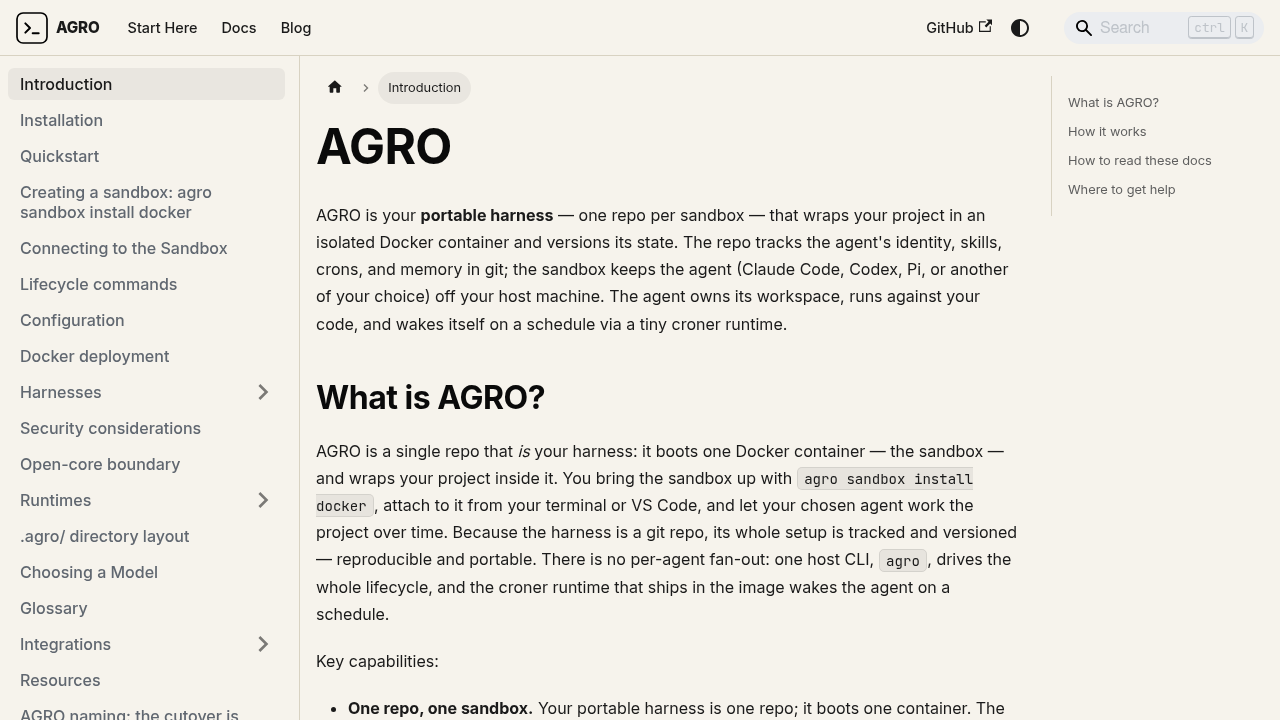
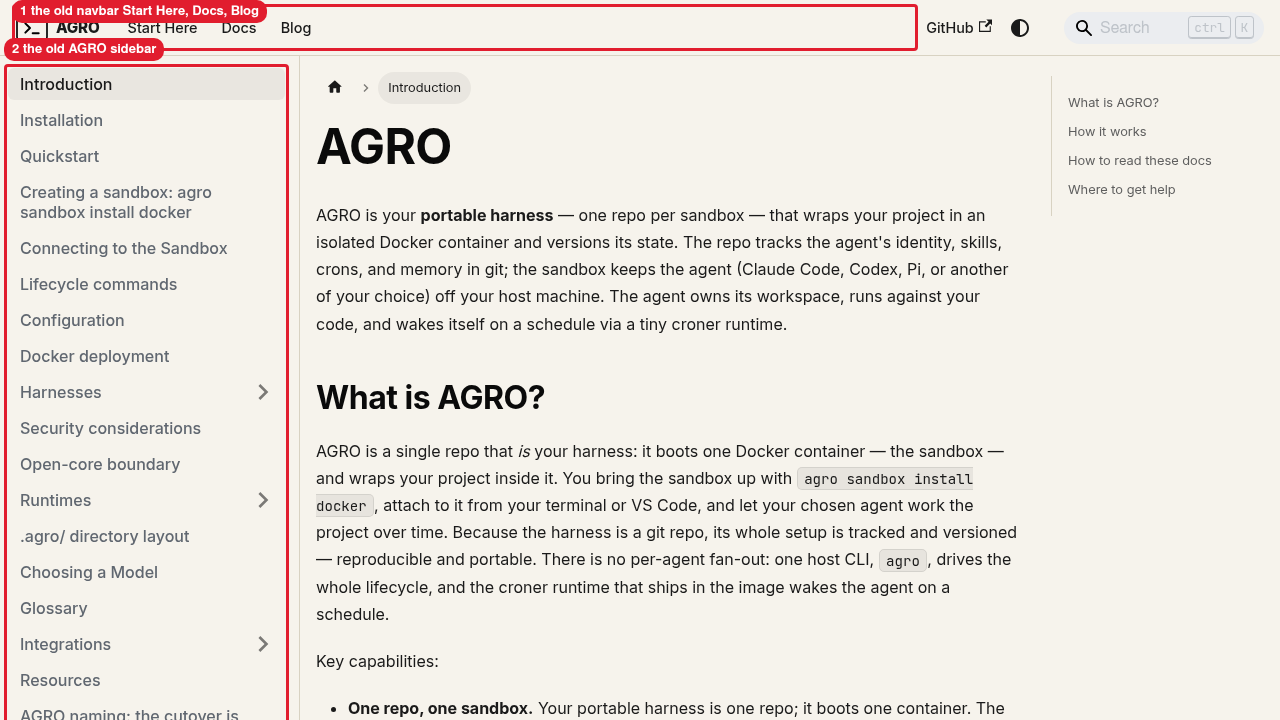
docs: annotate the before screenshots (#70, US-015)

Changed region(s): [[0.0, 0.0, 0.7188, 0.1222]]

diff --git a/.agro/tasks/docs-site-alignment/evidence/manual-review.md b/.agro/tasks/docs-site-alignment/evidence/manual-review.md
@@ -39,7 +39,7 @@ The run used agent-browser 0.38.1 with the session `us-015`. The run took each s
 
    <img src="https://github.com/mifunedev/agro-web/blob/<commit-sha>/.agro/tasks/docs-site-alignment/evidence/before-home-1280.png?raw=true" width="720" alt="Live home page at 1280x720 before the change">
    </details>
-   Caption: before the change, the home page had no Console path and installed from `get-agro.sh` on agro.mifune.dev.
+   Callouts: 1 is the old navbar Start Here, Docs, Blog. 2 is the old hero buttons. Before the change, the home page had no Console path and installed from `get-agro.sh` on agro.mifune.dev.
 
 3. Open `http://localhost:3299/` at 414x896. Expected: the hero buttons stack as "Read the Console guide", "Open the Console", "Self-host AGRO". The quickstart panel shows "npm install -g @mifune/agro".
    <details><summary>Screenshot</summary>
@@ -53,7 +53,7 @@ The run used agent-browser 0.38.1 with the session `us-015`. The run took each s
 
    <img src="https://github.com/mifunedev/agro-web/blob/<commit-sha>/.agro/tasks/docs-site-alignment/evidence/before-home-414.png?raw=true" width="720" alt="Live home page at 414x896 before the change">
    </details>
-   Caption: before the change, the mobile hero showed "Get started" and "★ Star on GitHub".
+   Callouts: 1 is the old hero buttons. Before the change, the mobile hero showed "Get started" and "★ Star on GitHub".
 
 **B. Console guide**
 
@@ -69,7 +69,7 @@ The run used agent-browser 0.38.1 with the session `us-015`. The run took each s
 
    <img src="https://github.com/mifunedev/agro-web/blob/<commit-sha>/.agro/tasks/docs-site-alignment/evidence/before-console-intro-1280.png?raw=true" width="720" alt="Live docs introduction at 1280x720 before the change">
    </details>
-   Caption: before the change, `/docs` was the AGRO introduction, and the site had no Console guide.
+   Callouts: 1 is the old navbar Start Here, Docs, Blog. 2 is the old AGRO sidebar. Before the change, `/docs` was the AGRO introduction, and the site had no Console guide.
 
 3. Open `http://localhost:3299/docs` at 414x896. Expected: the breadcrumb shows "Introduction". The page title is "Mifune Console".
    <details><summary>Screenshot</summary>
@@ -83,7 +83,7 @@ The run used agent-browser 0.38.1 with the session `us-015`. The run took each s
 
    <img src="https://github.com/mifunedev/agro-web/blob/<commit-sha>/.agro/tasks/docs-site-alignment/evidence/before-console-intro-414.png?raw=true" width="720" alt="Live docs introduction at 414x896 before the change">
    </details>
-   Caption: before the change, the mobile `/docs` page showed the title "AGRO".
+   Callouts: 1 is the old page title AGRO.
 
 5. Open `http://localhost:3299/docs/console/nodes` at 1280x720. Expected: the sidebar marks "Nodes" as active. The page title is "Nodes". The first heading is "Roles for each action".
    <details><summary>Screenshot</summary>
@@ -117,7 +117,7 @@ The run used agent-browser 0.38.1 with the session `us-015`. The run took each s
 
    <img src="https://github.com/mifunedev/agro-web/blob/<commit-sha>/.agro/tasks/docs-site-alignment/evidence/before-agro-quickstart-1280.png?raw=true" width="720" alt="Live quickstart at 1280x720 before the change">
    </details>
-   Caption: before the change, the quickstart lived at `/docs/quickstart` and named `get-agro.sh` as the bootstrap.
+   Callouts: 1 is the old npm install line. 2 is the get-agro.sh install line. Before the change, the quickstart lived at `/docs/quickstart` and named `get-agro.sh` as the bootstrap.
 
 4. Look at `/docs/agro/quickstart` at 414x896. Expected: the step heading is "1. Get agro". The first command is "npm install -g @mifune/agro".
    <details><summary>Screenshot</summary>
@@ -131,7 +131,7 @@ The run used agent-browser 0.38.1 with the session `us-015`. The run took each s
 
    <img src="https://github.com/mifunedev/agro-web/blob/<commit-sha>/.agro/tasks/docs-site-alignment/evidence/before-agro-quickstart-414.png?raw=true" width="720" alt="Live quickstart at 414x896 before the change">
    </details>
-   Caption: before the change, the mobile quickstart showed "Before you start" and named `get-agro.sh`.
+   Callouts: 1 is the old npm install line. 2 is the get-agro.sh install line.
 
 **D. Blog post**
 
@@ -147,7 +147,7 @@ The run used agent-browser 0.38.1 with the session `us-015`. The run took each s
 
    <img src="https://github.com/mifunedev/agro-web/blob/<commit-sha>/.agro/tasks/docs-site-alignment/evidence/before-blog-1280.png?raw=true" width="720" alt="Live blog post at 1280x720 before the change">
    </details>
-   Caption: before the change, the post used the name "Open Harness" and `oh` commands.
+   Callouts: 1 is the old title with Open Harness. 2 is the old Commands updated note. Before the change, the post used the name "Open Harness" and `oh` commands.
 
 3. Open the post at 414x896. Expected: the date is "July 7, 2026". The note shows "Updated on 2026-10-08. Open Harness is now AGRO."
    <details><summary>Screenshot</summary>
@@ -161,7 +161,7 @@ The run used agent-browser 0.38.1 with the session `us-015`. The run took each s
 
    <img src="https://github.com/mifunedev/agro-web/blob/<commit-sha>/.agro/tasks/docs-site-alignment/evidence/before-blog-414.png?raw=true" width="720" alt="Live blog post at 414x896 before the change">
    </details>
-   Caption: before the change, the mobile post used the name "Open Harness".
+   Callouts: 1 is the old title with Open Harness. 2 is the old Commands updated note.
 
 **E. Cleanup**
 
